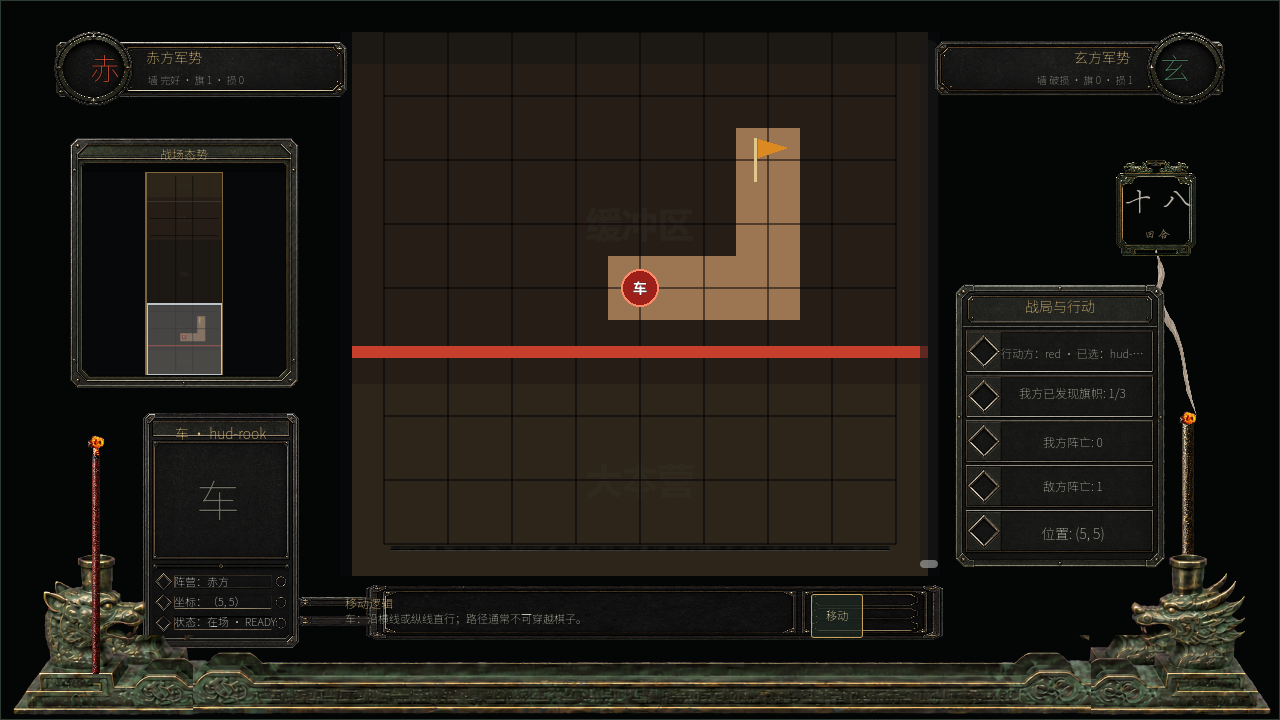
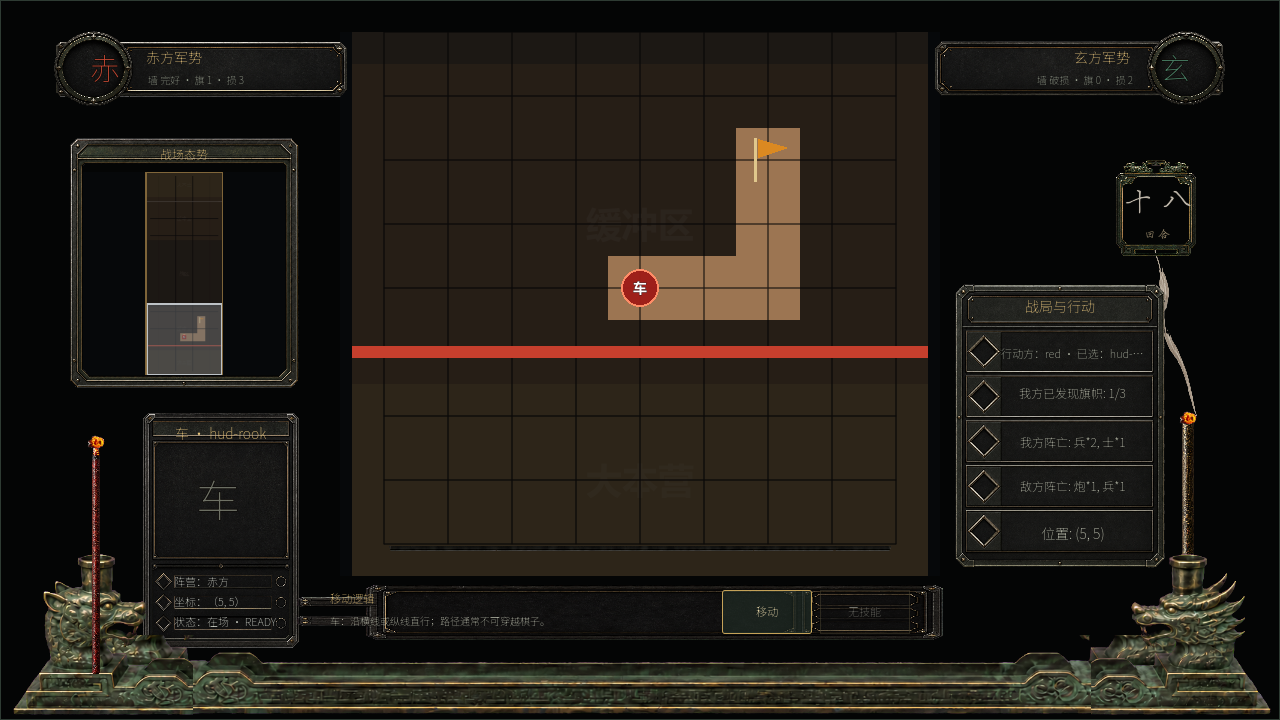
feat: 支持棋盘二维平滑导航

diff --git a/assets/art/ui/terracotta_hud_v2/README.md b/assets/art/ui/terracotta_hud_v2/README.md
@@ -32,7 +32,9 @@
 - `resources/game/ui/themes/terracotta_ui_theme.tres` 已使用本目录的通用面板、四态按钮、小地图框与回合状态条。
 - `resources/game/ui/layouts/veilfront_board_ui_layout_v2.json` 固化网页工具导出的四套布局；其中棋盘矩形只表示默认屏幕可视窗口，完整棋盘世界仍为 `1152×3072`。
 - `scenes/game/ui/match_hud_v2.tscn` 以预置节点接入左右阵营牌、单位卡、目标与行动面板、玩家视角小地图和燃香条；`match_screen.tscn` 已切换为该正式 HUD。
-- 坐标悬停读数只显示在右侧“位置”行，并由棋盘屏幕层统一换算镜头坐标；小地图通过独立预置 `BoardWorld` 鸟瞰视口复用主棋盘的 PlayerView、阵营镜像、区域、迷雾、墙、棋子与公开战术层。小地图单击/拖动使用可打断的 `0.16s` 快速镜头补间，滚轮保留 `0.32s` 平滑滚动，灰色半透明区域实时显示主棋盘当前可见范围。
+- 坐标悬停读数只显示在右侧“位置”行，并由棋盘屏幕层统一换算镜头坐标；小地图通过独立预置 `BoardWorld` 鸟瞰视口复用主棋盘的 PlayerView、阵营镜像、区域、迷雾、墙、棋子与公开战术层。小地图单击/拖动使用可打断的 `0.16s` 二维镜头补间，缩放后灰色视野块可沿水平和垂直方向自由定位；滚轮保留 `0.32s` 平滑移动，棋盘不显示滚动条。
+- 右侧战况列表按具体棋子聚合阵亡信息（例如 `兵*2, 士*1`）；棋子详情抽屉固定为左侧移动说明、右侧两个横排矩形操作按钮。
+- `tools/ui/board_ui_layout_editor.html` 是 HUD 布局与文字调整工具；选择 HUD 后可用“编辑选中 UI 文字”直接调整内容、字体、对齐方式及文字框位置和尺寸，并继续使用原有 JSON 导入导出契约。
 - 运行时优先匹配 `1280×720`、`1680×720`、`1280×800`、`1280×960` 的画布宽高比，再按当前可用画布缩放；教学侧栏会作为右侧保留宽度参与布局计算。
 - `scenes/game/ui/match_header.tscn` 通过 `TurnStatusPanel` 主题变体使用 V2 回合状态条。
 - `scenes/game/ui/match_header.tscn` 已预置 `turn_progress_incense.tscn`，旧阿拉伯数字回合 Label 仅保留为隐藏兼容节点。
